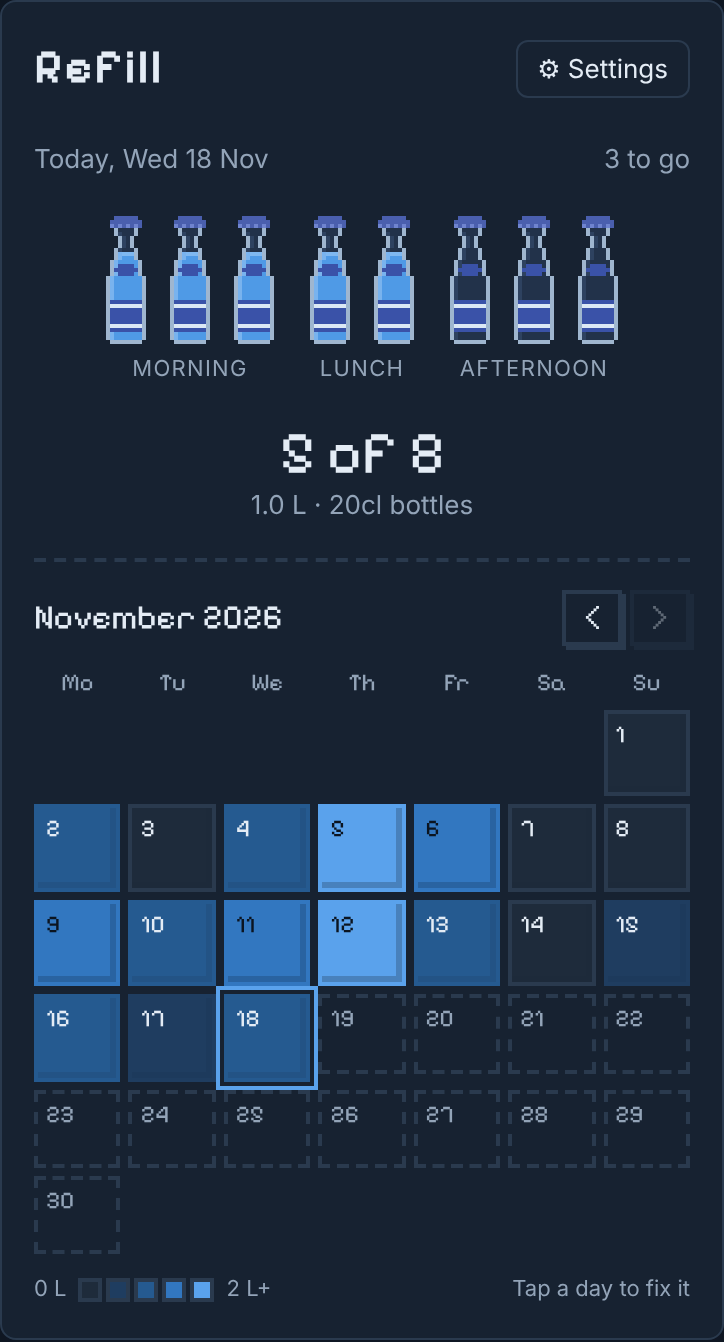
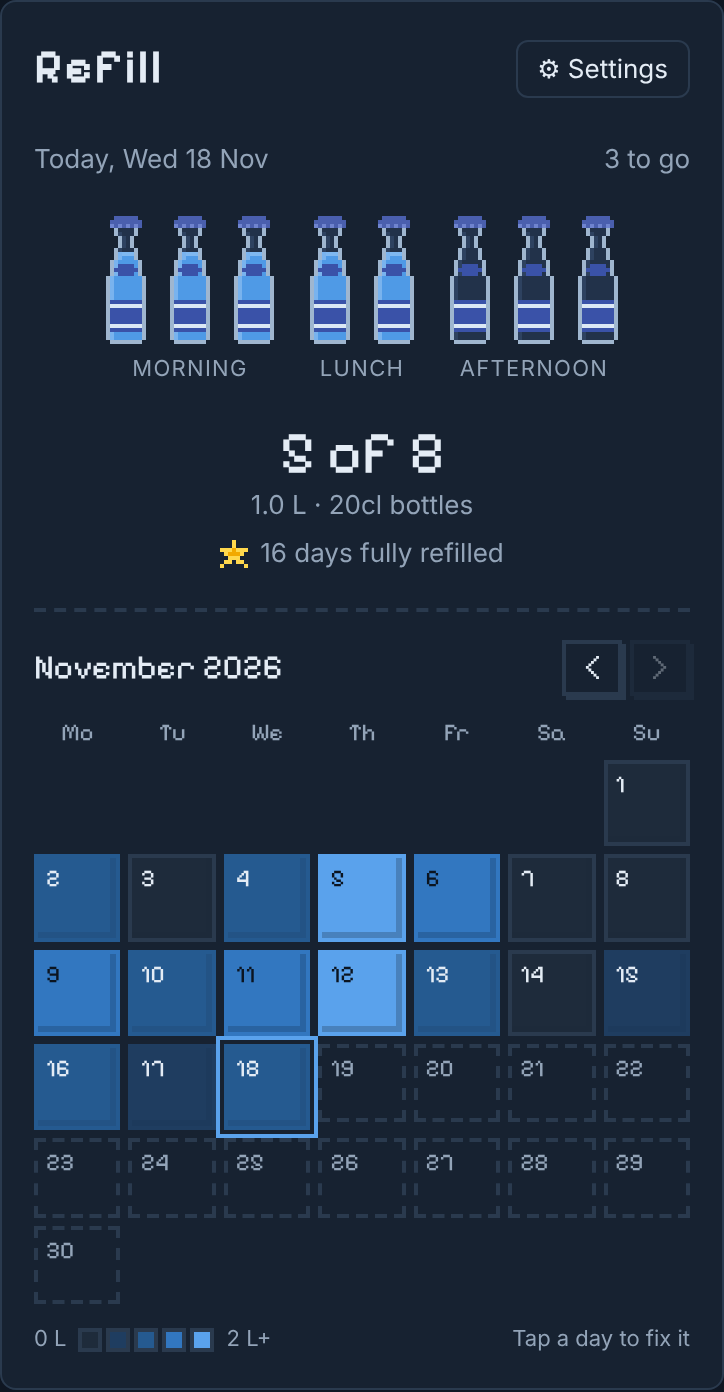
Count the days fully refilled since the beginning
A line under the total, with the pixel star, counts every day (weekends
included) whose logged bottles reached the current daily goal, e.g.
"17 days fully refilled"; a missed day never resets it. Glossary,
README and screenshots updated.

Claude-Session: https://claude.ai/code/session_01NwyJ4FQ7jCZFZn1ZnZDxZk

diff --git a/src/ui/tracker.js b/src/ui/tracker.js
@@ -1,6 +1,6 @@
 import { goal } from "../core/settings.js";
-import { slots, litres } from "../core/days.js";
-import { bottleSVG } from "./pixels.js";
+import { slots, litres, daysAtGoalText } from "../core/days.js";
+import { bottleSVG, starSVG } from "./pixels.js";
 
 const MONTHS = ["Jan", "Feb", "Mar", "Apr", "May", "Jun", "Jul", "Aug", "Sep", "Oct", "Nov", "Dec"];
 const WEEKDAYS = ["Sun", "Mon", "Tue", "Wed", "Thu", "Fri", "Sat"];
@@ -17,7 +17,7 @@ function bottleHTML(i, full, goalCount) {
   return `<button type="button" class="bottle${ghost ? " ghost" : ""}" data-i="${i}" aria-label="Bottle ${i + 1}, ${action}">${bottleSVG(full)}</button>`;
 }
 
-export function renderTracker(root, { key, isToday, count, settings }, { onTap, onBack, onOpenSettings }) {
+export function renderTracker(root, { key, isToday, count, settings, daysAtGoal }, { onTap, onBack, onOpenSettings }) {
   const g = goal(settings);
   const { morning, lunch, afternoon } = settings.parts;
   const groups = [
@@ -44,7 +44,8 @@ export function renderTracker(root, { key, isToday, count, settings }, { onTap, 
     `<div class="head"><h2>Refill</h2><button type="button" class="iconbtn" id="openSettings">&#9881; Settings</button></div>` +
     daybar +
     `<div class="bottles" id="bottles">${bottles}</div>` +
-    `<div class="total"><span class="big">${count} of ${g}</span><span class="sub">${litres(count, settings.bottleCl).toFixed(1)} L · ${settings.bottleCl}cl bottles</span></div>`;
+    `<div class="total"><span class="big">${count} of ${g}</span><span class="sub">${litres(count, settings.bottleCl).toFixed(1)} L · ${settings.bottleCl}cl bottles</span>` +
+    `<span class="at-goal">${starSVG()}${daysAtGoalText(daysAtGoal)}</span></div>`;
 
   root.querySelector("#openSettings").onclick = onOpenSettings;
   const back = root.querySelector("#backToday");

diff --git a/tests/smoke/tracker.test.js b/tests/smoke/tracker.test.js
@@ -43,3 +43,33 @@ test("tracker: log, undo, reach the goal, keep it after reload", async () => {
   assert.deepEqual(errors, []);
   await context.close();
 });
+
+test("tracker: counts the days at goal, and today joins when the goal is reached", async () => {
+  const context = await browser.newContext();
+  await context.addInitScript(() => {
+    if (sessionStorage.getItem("seeded")) return;
+    sessionStorage.setItem("seeded", "1");
+    const days = { "2026-01-05": 8, "2026-01-06": 3, "2026-01-10": 9 };
+    localStorage.setItem("refill", JSON.stringify({ version: 1, days }));
+  });
+  const page = await context.newPage();
+  const errors = watchErrors(page);
+  await page.goto(server.url + "/index.html");
+  await page.getByText("2 days fully refilled").waitFor();
+  for (let i = 0; i < 8; i++) await page.locator('.bottle[data-i="7"]').click();
+  await page.getByText("3 days fully refilled").waitFor();
+  await page.locator('.bottle[data-i="0"]').click();
+  await page.getByText("2 days fully refilled").waitFor();
+  assert.deepEqual(errors, []);
+  await context.close();
+});
+
+test("tracker: with no days at goal yet, it says so (Not fully refilled yet)", async () => {
+  const context = await browser.newContext();
+  const page = await context.newPage();
+  const errors = watchErrors(page);
+  await page.goto(server.url + "/index.html");
+  await page.getByText("Not fully refilled yet").waitFor();
+  assert.deepEqual(errors, []);
+  await context.close();
+});

diff --git a/tests/unit/days.test.js b/tests/unit/days.test.js
@@ -1,6 +1,6 @@
 import test from "node:test";
 import assert from "node:assert/strict";
-import { dateKey, countOn, tapBottle, slots, shade, reachedGoal } from "../../src/core/days.js";
+import { dateKey, countOn, tapBottle, slots, shade, reachedGoal , daysAtGoal, daysAtGoalText } from "../../src/core/days.js";
 
 test("dateKey is local", () => assert.equal(dateKey(new Date(2026, 10, 3, 23, 30)), "2026-11-03"));
 test("tap past the count logs one", () => assert.equal(countOn(tapBottle({}, "k", 0), "k"), 1));
@@ -15,4 +15,17 @@ test("shade thresholds at 20cl", () =>
 test("reachedGoal only on crossing", () => {
   assert.equal(reachedGoal(7, 8, 8), true);
   assert.equal(reachedGoal(8, 9, 8), false);
+});
+
+test("daysAtGoal counts every day that reached the goal, weekends included", () => {
+  const days = { "2026-11-02": 8, "2026-11-03": 7, "2026-11-07": 9, "2026-11-08": 8, "2026-11-09": 0 };
+  assert.equal(daysAtGoal(days, 8), 3);
+  assert.equal(daysAtGoal(days, 10), 0);
+  assert.equal(daysAtGoal({}, 8), 0);
+});
+
+test("the days-at-goal line reads well for 0, 1 and many days", () => {
+  assert.equal(daysAtGoalText(0), "Not fully refilled yet");
+  assert.equal(daysAtGoalText(1), "1 day fully refilled");
+  assert.equal(daysAtGoalText(23), "23 days fully refilled");
 });

diff --git a/src/main.js b/src/main.js
@@ -1,7 +1,7 @@
 import { load, save, STORAGE_KEY } from "./core/storage.js";
 import { dueReminders } from "./core/reminders.js";
 import { notificationState, askPermission, showReminder } from "./notify.js";
-import { dateKey, countOn, tapBottle, reachedGoal } from "./core/days.js";
+import { dateKey, countOn, tapBottle, reachedGoal, daysAtGoal } from "./core/days.js";
 import { goal } from "./core/settings.js";
 import { renderTracker } from "./ui/tracker.js";
 import { renderCalendar } from "./ui/calendar.js";
@@ -138,7 +138,7 @@ function render() {
   }
   renderTracker(
     trackerRoot,
-    { key, isToday: key === todayKey(), count: countOn(state.days, key), settings: state.settings },
+    { key, isToday: key === todayKey(), count: countOn(state.days, key), settings: state.settings, daysAtGoal: daysAtGoal(state.days, goal(state.settings)) },
     {
       onTap,
       onBack() { state.fixing = todayKey(); showMonthOf(state.fixing); render(); },

diff --git a/styles.css b/styles.css
@@ -111,6 +111,8 @@ button { cursor: pointer; }
 .total { text-align: center; display: flex; flex-direction: column; gap: 2px; }
 .total .big { font-family: var(--font-display); font-size: 30px; line-height: 1; font-variant-numeric: tabular-nums; }
 .total .sub { color: var(--muted); font-size: 13px; }
+.total .at-goal { display: inline-flex; align-items: center; justify-content: center; gap: 6px; margin-top: 4px; font-size: 13px; color: var(--muted); }
+.total .at-goal svg { width: 14px; height: 14px; shape-rendering: crispEdges; flex: none; }
 
 .p-out{fill:var(--px-out)} .p-cap{fill:var(--px-cap)} .p-capd{fill:var(--px-capd)}
 .p-glass{fill:var(--px-glass)} .p-glasshi{fill:var(--px-glasshi)}

diff --git a/src/core/days.js b/src/core/days.js
@@ -34,3 +34,14 @@ export function shade(count, bottleCl) {
 export function reachedGoal(before, after, goal) {
   return before < goal && after >= goal;
 }
+
+// How many days ever reached the goal, weekends included. Measured against the
+// current goal, since days don't store their own.
+export function daysAtGoal(days, goal) {
+  return Object.values(days).filter((n) => n >= goal).length;
+}
+
+export function daysAtGoalText(n) {
+  if (n === 0) return "Not fully refilled yet";
+  return `${n} ${n === 1 ? "day" : "days"} fully refilled`;
+}

diff --git a/README.md b/README.md
@@ -21,6 +21,9 @@ nothing is fetched from other sites.
 - Shows the day's bottles in the morning, lunch and afternoon parts, drawn as
   pixel art. Tap a bottle to log the next one; tap a logged bottle to undo.
 - Shows "N of G" and the litres, and how many are left to go.
+- Counts the days you've been fully refilled, meaning you reached your goal,
+  since the beginning, for example "23 days fully refilled". Weekend days
+  count too, and a missed day never resets it.
 - Past the daily goal it adds an extra bottle, and a burst of stars marks
   reaching the goal.
 

diff --git a/CONTEXT.md b/CONTEXT.md
@@ -45,3 +45,9 @@ The reminder with the day's count of logged bottles against the daily goal.
 **Fixing a day**:
 Changing the count of a past day.
 _Avoid_: editing, backfilling
+
+**Fully refilled**:
+A day whose logged bottles reached the daily goal (the current one, since days
+don't store their own). Refill counts these days since the beginning; missing a
+day never resets the count.
+_Avoid_: streak
